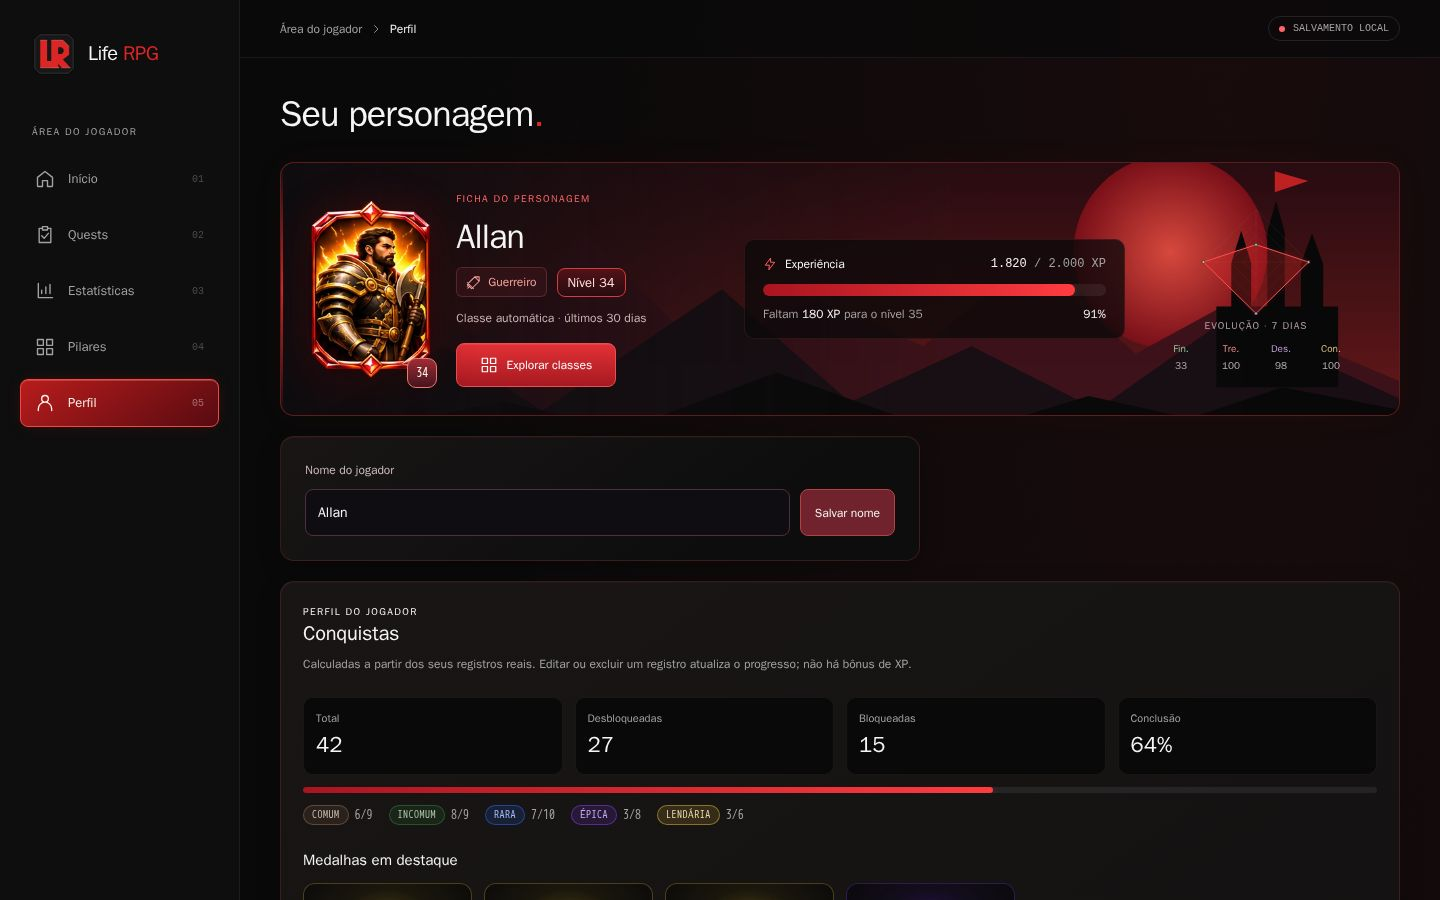
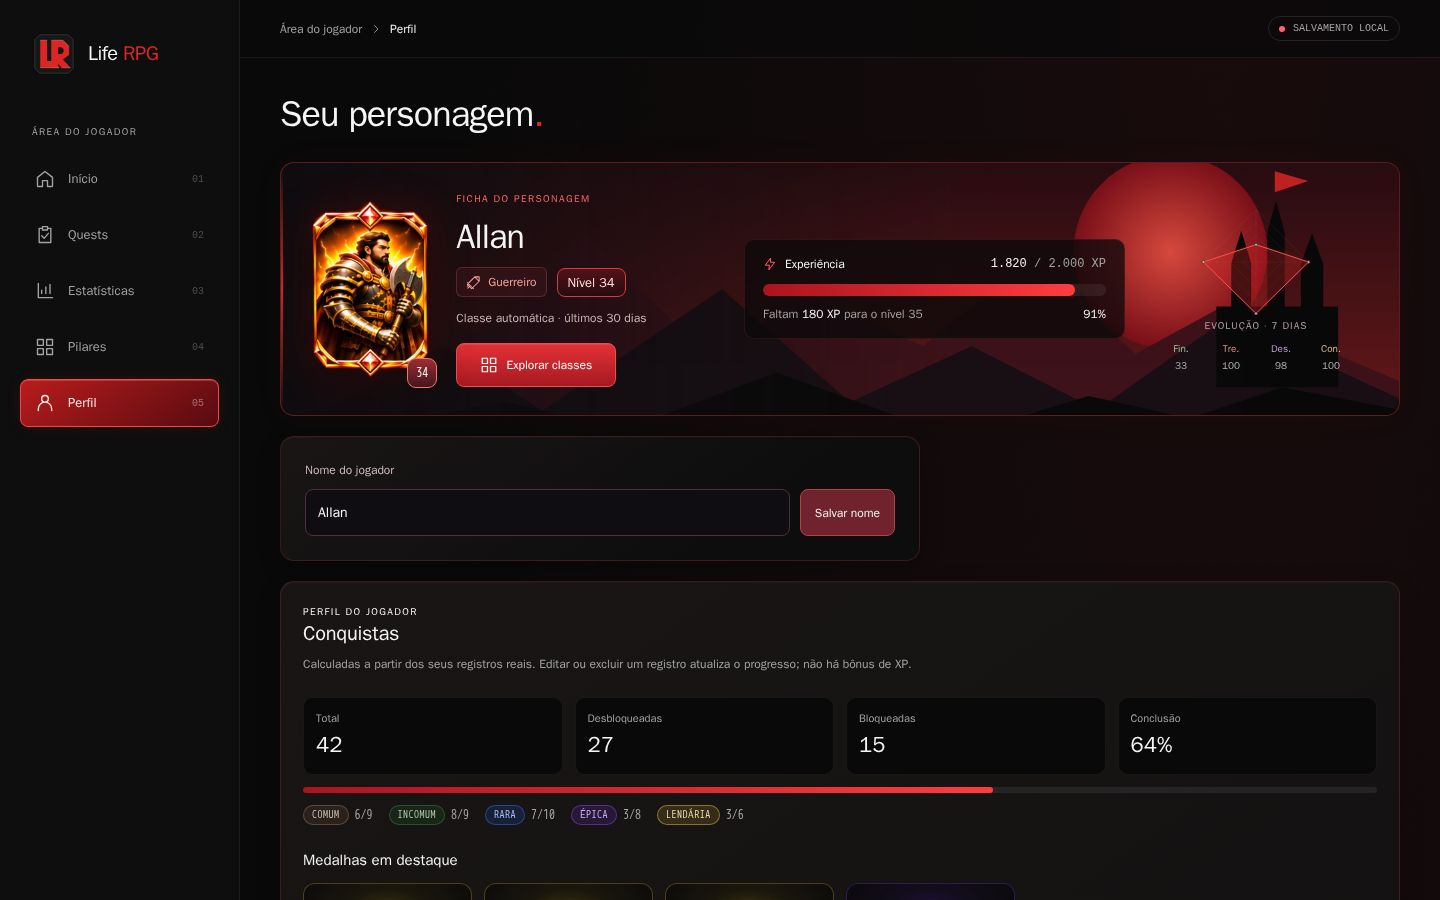
docs(audits): refresh dark fantasy character screenshots

Changed region(s): [[0.2188, 0.2178, 0.3125, 0.4356]]

diff --git a/docs/audits/characters-2026-11-24.md b/docs/audits/characters-2026-11-24.md
@@ -6,8 +6,9 @@ Branch: `feat/dark-fantasy-characters`, derivada de `feat/profile-achievements`
 ## O que mudou
 
 - As 24 cartas (6 classes × 4 estágios) foram extraídas da prancha sem textos
-  ([`characters-sheet.png`](../../apps/web/src/modules/profile/assets/previews/characters-sheet.png)),
-  na mesma ordem da prancha rotulada aprovada. Ficam em
+  ([`characters-sheet.png`](../../apps/web/src/modules/profile/assets/previews/characters-sheet.png),
+  1448 × 1086, segunda versão), na mesma ordem da prancha rotulada aprovada. A
+  quarta linha da prancha (alternativas de Sábio e Mestre) não foi escolhida. Ficam em
   [`assets/cards`](../../apps/web/src/modules/profile/assets/cards/README.md) e servem ao
   retrato (Início e Perfil) e à galeria de classes.
 - A arte pixelada (retratos e cartas) foi movida para `assets/legacy/`, fora do
@@ -17,10 +18,10 @@ Branch: `feat/dark-fantasy-characters`, derivada de `feat/profile-achievements`
 
 ## Estados
 
-17 `ready`, 3 `review` (halo tênue fora da moldura, só sobre fundos claros:
-Aventureiro IV, Sábio III e IV) e 4 `regenerate` (mãos com anatomia incorreta na
-arte original: Estrategista I e III, Sábio I e II). Os quatro seguem integrados até
-a nova arte ser fornecida; não foram repintados.
+20 `ready` e 4 `review` (halo tênue do brilho fora da moldura, só sobre fundos
+claros: Guerreiro, Estrategista, Guardião e Mestre IV; na arte, o Guerreiro IV tem
+moldura dourada). A segunda prancha corrigiu as mãos de Estrategista I e III e
+Sábio I e II, antes marcadas como `regenerate`.
 
 ## Capturas
 
